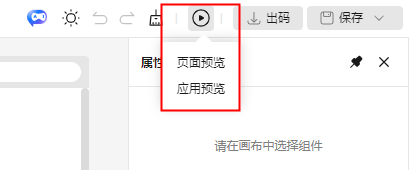
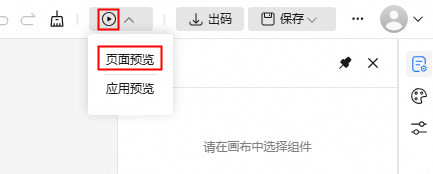
feat/model-app-preview-document

diff --git a/docs/basic-features/page-app-and-block-preview.md b/docs/basic-features/page-app-and-block-preview.md
@@ -49,8 +49,8 @@
 ### 预览页的效果
 
 可以看到如下图的应用预览界面除了具备 页面·区块预览 的交互和验证功能外，还提供了
-- 手动路由切换（添加了路由切换栏）
-- 路由功能验证
+- 手动路由切换（添加了路由切换栏，图中标注的部分，树状结构）
+- 路由功能验证（跳转、回退等）
 
 ![Alt text](./imgs/preview-app.png)
 
